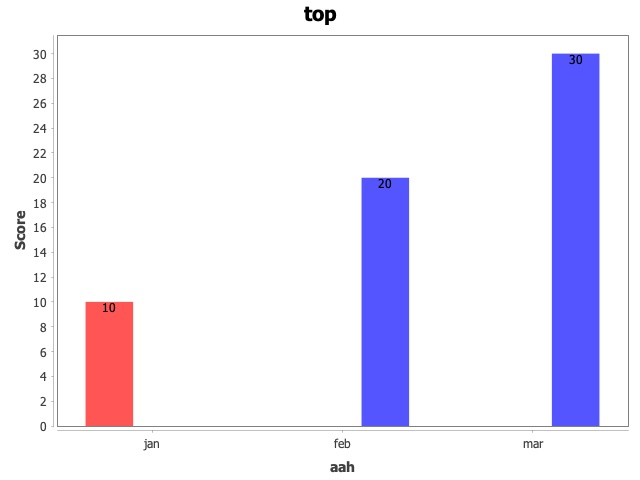
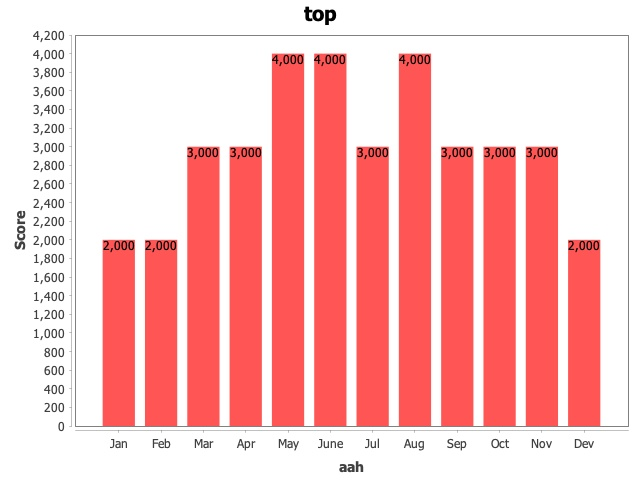
add

diff --git a/mavenprojectSCR/src/main/java/web/powerpoint/slide/SlidePageNameEnum.java b/mavenprojectSCR/src/main/java/web/powerpoint/slide/SlidePageNameEnum.java
@@ -20,7 +20,7 @@ public enum SlidePageNameEnum {
     EightConfidentialClientEvaluationOneTextSlide("Slide8"),
     NineConfidentialClientEvaluationProposedSlide(""),
     NineConfidentialClientEvaluationProposedTextSlide("Slide9"),
-    TwentyOnePlanAMedia("Slide21"),
+    TwentyOnePlanAMedia("Slide17"),
     EightConfidentialClientEvaluationOneSlide("Weekends are best."),
     SeventeenPlanAMediaSlide(""),
     TwentyPlanABEPTextSlide(""),